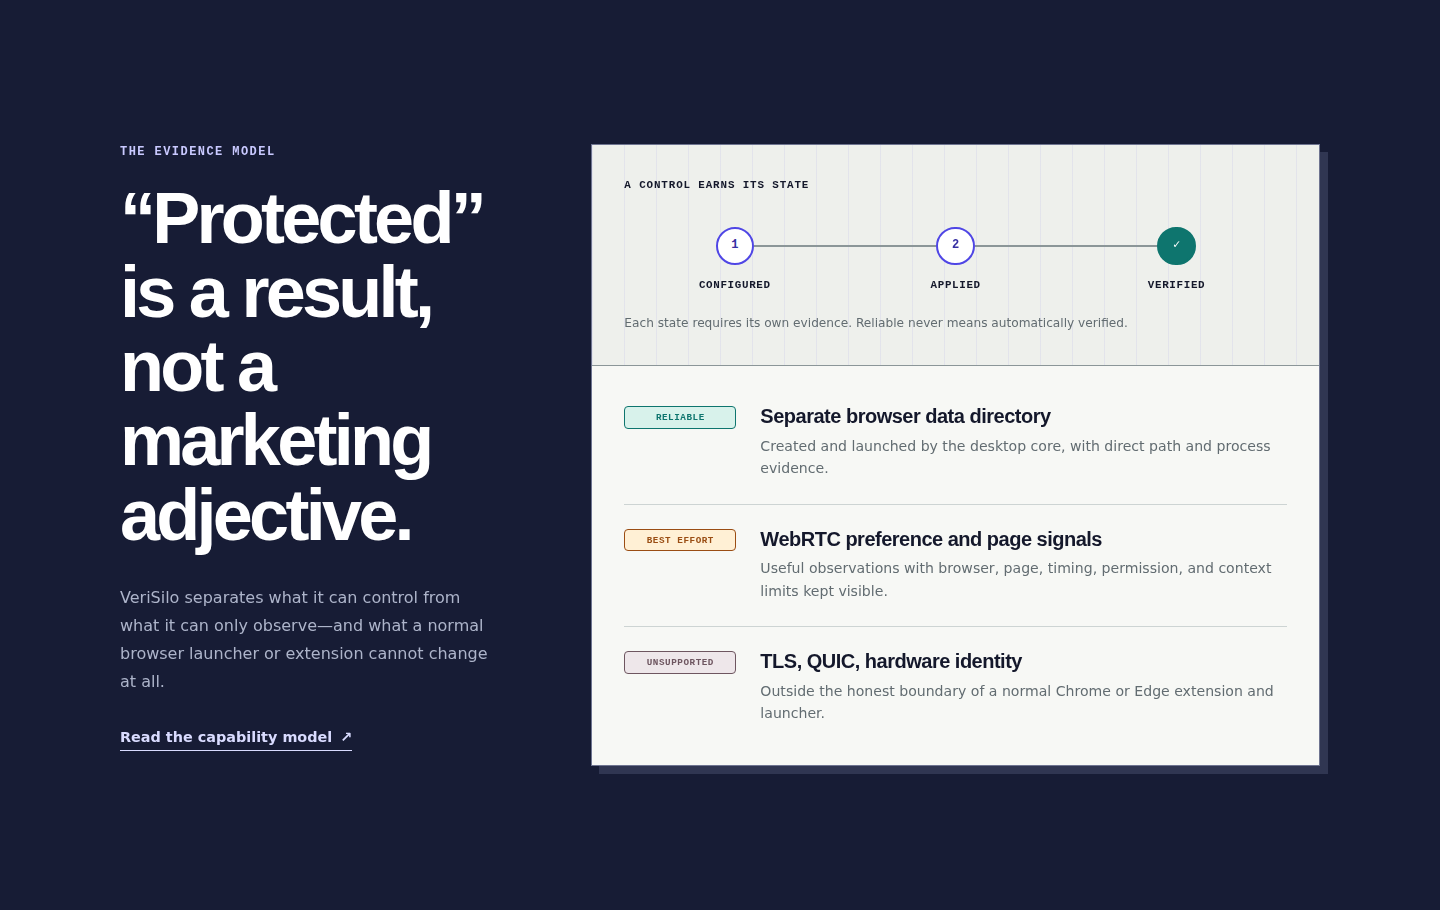
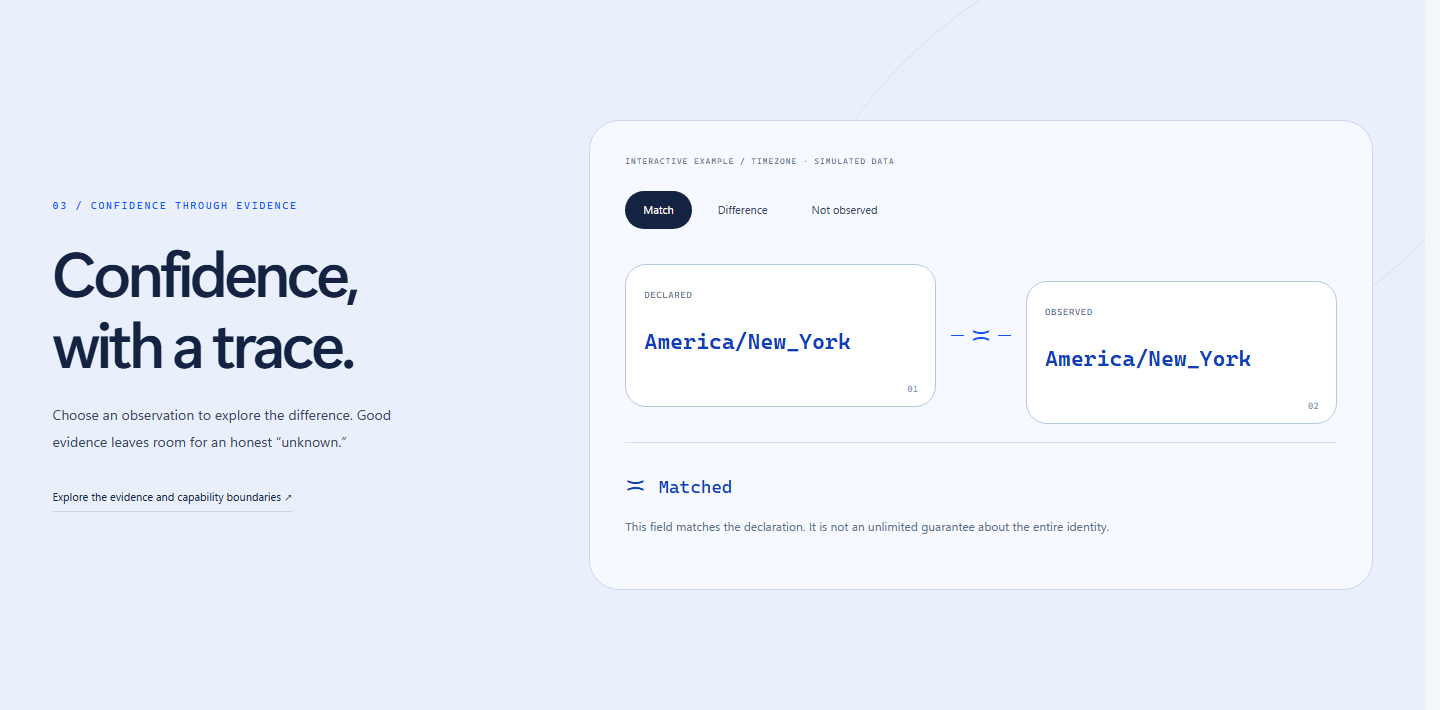
fix(developer): 用当前 VeriSilo 产品站截图替换旧版证据图
首屏 VeriSilo 证据图仍是旧版产品站的深蓝背景截图（"Protected is a result,
not a marketing adjective"），与现在线上的 verisilo.qiu.works 视觉完全
不同，等于用一个已经不存在的界面为「evidence before adjectives」作证。

- 重新截取两种语言的当前 evidence section（Confidence, with a trace. /
  「安心，有迹可循。」），保留完整的声明 / 实测对比面板与「匹配不等于
  无限保证」的注脚。
- 尺寸由 1440×910 / 1440×843 统一为 1440×710，同步更新
  content.ts 的 imageHeight 与 .featured-project__visual 的 aspect-ratio，
  渲染实测零变形。
- 更新 imageAlt 以描述新图实际内容。

在 developer-workbench.md 补充维护规则：证据图必须取自对应语言的当前
线上页面，产品站改版后需重新截取，且 imageHeight 与 CSS aspect-ratio
必须同步。

diff --git a/developer/src/content.ts b/developer/src/content.ts
@@ -132,8 +132,8 @@ export const copy: Record<Locale, DeveloperCopy> = {
       featuredProduct: 'Visit product site',
       featuredSource: 'Inspect source',
       image: '/assets/evidence/verisilo-site-en.png',
-      imageHeight: 910,
-      imageAlt: 'VeriSilo capability evidence model distinguishing reliable, best-effort, and unsupported browser controls',
+      imageHeight: 710,
+      imageAlt: 'VeriSilo evidence view comparing declared and observed configuration, marked Matched with the caveat that a match is not an unlimited guarantee',
       listAria: 'Selected software projects',
     },
     projects: [
@@ -270,8 +270,8 @@ export const copy: Record<Locale, DeveloperCopy> = {
       featuredProduct: '前往产品网站',
       featuredSource: '检查源代码',
       image: '/assets/evidence/verisilo-site-zh.png',
-      imageHeight: 843,
-      imageAlt: 'VeriSilo 产品站的能力证据模型，区分可靠、尽力而为与不支持的浏览器控制',
+      imageHeight: 710,
+      imageAlt: 'VeriSilo 证据视图对比配置声明与实测结果，状态为「匹配」，并注明一致并不代表对整个身份的无限保证',
       listAria: '代表软件项目',
     },
     projects: [

diff --git a/developer/src/styles/global.css b/developer/src/styles/global.css
@@ -450,7 +450,7 @@ button {
 .featured-project__visual {
   position: relative;
   overflow: hidden;
-  aspect-ratio: 1440 / 910;
+  aspect-ratio: 1440 / 710;
   align-self: start;
   border: 1px solid var(--line-strong);
   background: var(--surface-muted);
